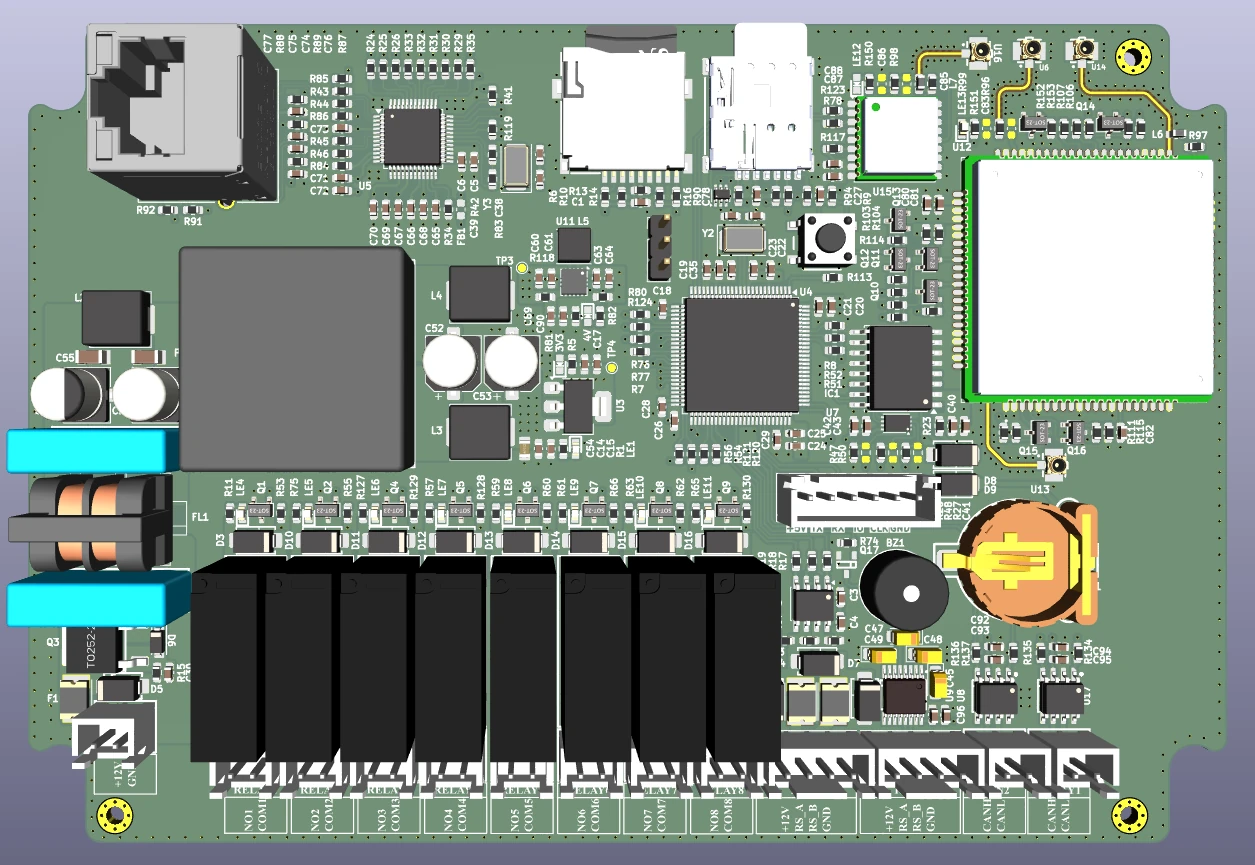
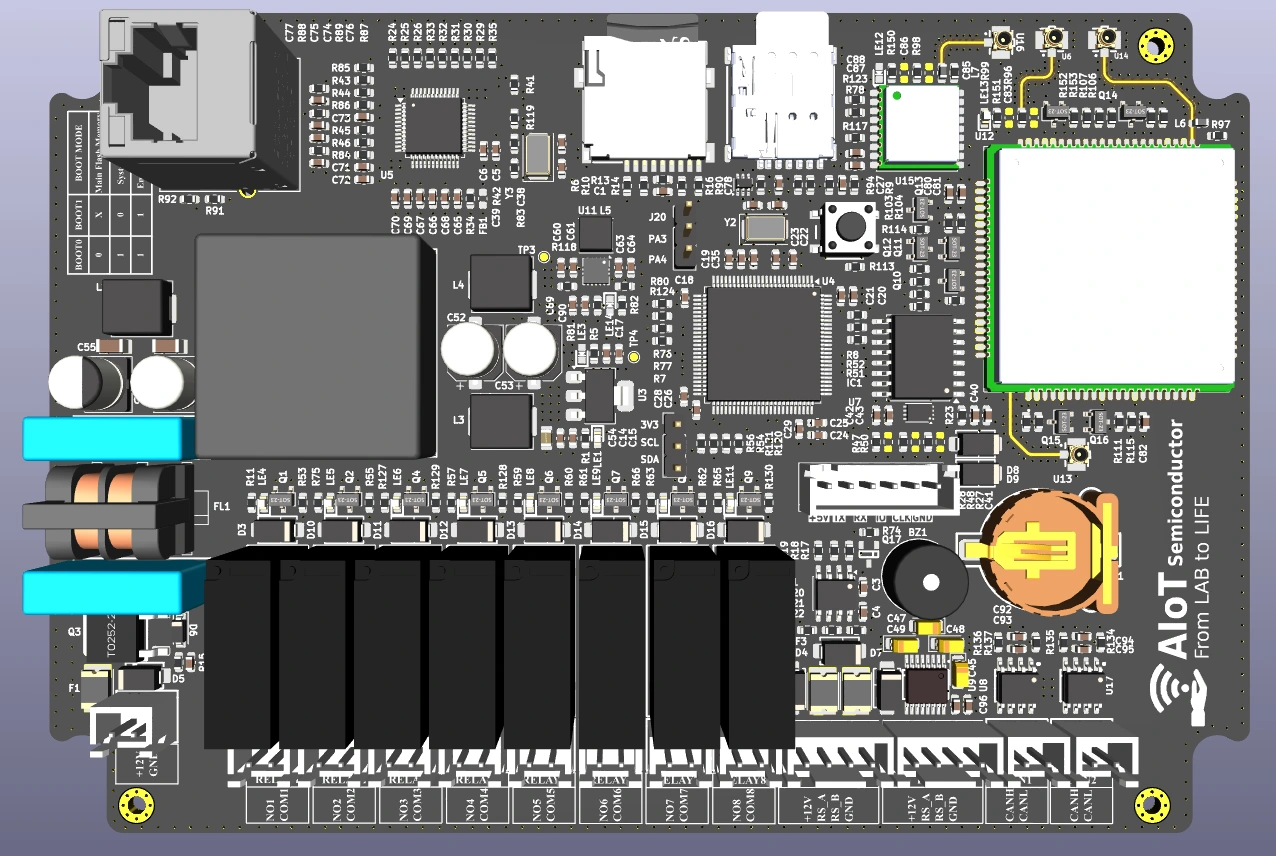
Restore work experience and refresh pump controller project

diff --git a/src/components/PortfolioHome.tsx b/src/components/PortfolioHome.tsx
@@ -25,9 +25,9 @@ export function PortfolioHome(){const{value:education,select:setEducation,panelR
 <section className="ref-container ref-trust"><p>Engineering tools & platforms</p><div className="ref-tools">{['KiCad','Altium Designer','STM32','ESP32','VS Code','Arduino IDE'].map(x=><span key={x}>♧ &nbsp;{x}</span>)}</div><div className="ref-domain-grid">{[["HARDWARE","Hardware design","PCB schematic & layout"],["FIRMWARE","Firmware integration","Microcontrollers & interfaces"],["SOFTWARE","Software interfaces","Dashboards & monitoring"],["IoT","Connected systems","Sensors, telemetry & control"]].map(([label,title,description])=><article key={label}><span>{label}</span><h3>{title}</h3><p>{description}</p></article>)}</div></section>
 <section id="case-studies" className="ref-container ref-section"><Heading label="ENGINEERING STUDIES" description="IoT node/gateway hardware and an STM32F407 industrial pump controller, based on my CV.">Featured <em>Case Studies</em></Heading><div className="ref-two ref-case-grid"><CaseStudy/><CaseStudy index={1}/></div><div className="ref-strategy"><p>Have a hardware challenge to explore?</p><ResumeDownload/></div></section>
 <VisionMarquee/>
-<section id="projects" className="ref-container ref-section circuit-section"><Heading label="SELECTED WORK" description="Five personal PCB and embedded hardware projects. ESP32 Devkit, IoT Board and ESP32 Datalogger are featured first.">Recent <em>Projects</em></Heading><BoardCatalog boards={boards} embedded/></section>
+<section id="projects" className="ref-container ref-section circuit-section"><Heading label="SELECTED WORK" description="Five personal PCB and embedded hardware projects. ESP32 Devkit, Industrial Pump Controller & Data Logger, and ESP32 Datalogger are featured first.">Recent <em>Projects</em></Heading><BoardCatalog boards={boards} embedded/></section>
 <section id="about" className="ref-container ref-about ref-section"><figure><Image src={aboutPortrait.src} alt={aboutPortrait.alt} width={aboutPortrait.width} height={aboutPortrait.height} sizes="(max-width: 799px) 90vw, 565px"/><figcaption>{aboutPortrait.caption}</figcaption></figure><div><span className="ref-label">ABOUT ME</span><h2><em>PCB Design,</em> Embedded<br/>Hardware & <em>Industrial IoT</em></h2><p>I graduated in Automation and Control Engineering Technology from Ho Chi Minh City University of Technology and Engineering (HCMUTE). My technical interests focus on electronic circuit design, component selection, PCB layout, and embedded hardware development using STM32 and ESP32 microcontrollers.</p><p className="pink">Through personal projects, I have designed multi-rail power supplies, industrial communication interfaces, and IoT hardware platforms with Ethernet, LoRa, and 4G LTE connectivity.</p><h4>I SPECIALIZE IN:</h4><ul className="ref-checks"><li>Schematic design and 2–4 layer PCB layout using KiCad and Altium Designer</li><li>Power supply design, component selection, and PCB design fundamentals</li><li>STM32/ESP32 hardware integration and industrial interfaces (RS485, CAN, Ethernet)</li><li>Embedded C/C++ fundamentals and IoT connectivity</li></ul><aside>✧ &nbsp; Familiar with hardware testing and troubleshooting using multimeters and oscilloscopes, with a focus on practical PCB design and continuous technical development.</aside><Socials/></div></section>
-<section id="resume" className="ref-container ref-section"><Heading label="ENGINEERING BACKGROUND" description="Automation engineering and personal hardware design projects.">Engineering <em>Experience</em></Heading><div className="ref-tabs" role="tablist" aria-label="Background" onKeyDown={event=>{if(["ArrowLeft","ArrowRight","Home","End"].includes(event.key)){event.preventDefault();const next=event.key==="Home"?false:event.key==="End"?true:!education;setEducation(next);document.getElementById(next?"education-tab":"experience-tab")?.focus();}}}><button role="tab" id="experience-tab" aria-controls="career-panel" tabIndex={education?-1:0} aria-selected={!education} onClick={()=>setEducation(false)}>Experience</button><button role="tab" id="education-tab" aria-controls="career-panel" tabIndex={education?0:-1} aria-selected={education} onClick={()=>setEducation(true)}>Education</button></div><div className="ref-timeline" ref={panelRef} role="tabpanel" id="career-panel" aria-labelledby={education?"education-tab":"experience-tab"}>{education?<article><h3>HCMUTE</h3><div className="timeline-role"><strong>Automation and Control Engineering Technology</strong><span>Sep 2019 – Sep 2026</span></div><p>Ho Chi Minh City University of Technology and Engineering</p><div className="ref-tags"><span>GPA: 2.7/4.0</span><span>Automation Engineering</span></div></article>:resumeProjects.map(project=>({title:project.name,period:'Personal project',items:project.features})).map(item=><article key={item.title}><i>▣</i><h3>{item.title}</h3><div className="timeline-role"><strong>{item.title}</strong><span>{item.period}</span></div><ul>{item.items.map(text=><li key={text}>{text}</li>)}</ul></article>)}</div></section>
+<section id="resume" className="ref-container ref-section"><Heading label="ENGINEERING BACKGROUND" description="Automation engineering, practical electrical work and personal embedded hardware projects.">Engineering <em>Experience</em></Heading><div className="ref-tabs" role="tablist" aria-label="Background" onKeyDown={event=>{if(["ArrowLeft","ArrowRight","Home","End"].includes(event.key)){event.preventDefault();const next=event.key==="Home"?false:event.key==="End"?true:!education;setEducation(next);document.getElementById(next?"education-tab":"experience-tab")?.focus();}}}><button role="tab" id="experience-tab" aria-controls="career-panel" tabIndex={education?-1:0} aria-selected={!education} onClick={()=>setEducation(false)}>Experience</button><button role="tab" id="education-tab" aria-controls="career-panel" tabIndex={education?0:-1} aria-selected={education} onClick={()=>setEducation(true)}>Education</button></div><div className="ref-timeline" ref={panelRef} role="tabpanel" id="career-panel" aria-labelledby={education?"education-tab":"experience-tab"}>{education?<article><h3>HCMUTE</h3><div className="timeline-role"><strong>Automation and Control Engineering Technology</strong><span>Sep 2019 – Sep 2026</span></div><p>Ho Chi Minh City University of Technology and Engineering</p><div className="ref-tags"><span>GPA: 2.7/4.0</span><span>Automation Engineering</span></div></article>:[{title:'Electrical Panel Technician',period:'1 year',items:['Assembled and wired electrical control panels from wiring diagrams.','Performed electrical checks and troubleshooting.']},{title:'Elevator Maintenance Technician',period:'1 year',items:['Maintained and diagnosed elevator electrical and control systems.','Inspected sensors and control circuits.']},{title:'Personal Hardware & IoT Projects',period:'Personal projects',items:['ESP32 industrial IoT controller: power conversion, SHT31 sensing, RTC, storage, RS485, Wi-Fi, LoRa and relay control.','Industrial Pump Controller & Data Logger (STM32F407): multi-voltage supplies, CAN, RS485, RS232, Ethernet and SIM7600/GNSS.','Private ThingsBoard server with MQTT/HTTP connectivity and real-time dashboards.']}].map(item=><article key={item.title}><i>▣</i><h3>{item.title}</h3><div className="timeline-role"><strong>{item.title}</strong><span>{item.period}</span></div><ul>{item.items.map(text=><li key={text}>{text}</li>)}</ul></article>)}</div></section>
 <TechnicalSkills/>
 <section id="faq" className="ref-container ref-section"><Heading label="QUESTIONS & ANSWERS" description="Common questions about engineering services, project scope and how I work.">Frequently Asked <em>Questions</em></Heading><div className="ref-faq">{[['What PCB design software do you use?','I use KiCad and Altium for schematic capture and 2–4 layer PCB design, including DRC, BOM and Gerber preparation.'],['Can you support hardware prototyping?','Prototype scope, assembly and validation requirements are agreed for each project.'],['Do you design multi-layer PCBs?','Layer count and stackup are selected according to routing, signal and power requirements.'],['Do you work with STM32 and ESP32?','I design STM32 and ESP32 hardware and develop embedded firmware in C/C++, using STM32CubeMX and Arduino IDE.'],['Which microcontrollers do you work with?','STM32, ESP32 and other devices can be considered based on your application.'],['Can you integrate IoT connectivity?','My projects include Wi-Fi, LoRa, Ethernet and SIM7600/4G connectivity for industrial IoT hardware.'],['Can you develop industrial interfaces?','CAN, RS485 and analog or digital interface planning can be scoped for your system.'],['Do you offer schematic reviews?','Reviews can cover architecture, interfaces, component selection and design documentation.'],['Do you provide manufacturing files?','Agreed deliverables can include BOM, Gerbers and assembly documentation after design review.'],['Can you help debug existing PCB designs?','Share schematics, symptoms and available measurements to establish a review and debugging scope.']].map(([q,a])=><AnimatedFAQ key={q} question={q} answer={a}/>)}</div></section>
 <section id="contact" className="ref-container ref-section ref-contact circuit-section"><div><span className="ref-label">GET IN TOUCH</span><h2>Let&apos;s Talk For your <em>Next Project(s)</em></h2><p>Discuss a project or just want to say hi? Share your requirements, explore my <a href="#case-studies">case studies</a>, review my <a href="#technical-skills">technical skills</a>, or check my <a href="#resume">engineering background.</a></p><ul className="ref-checks"><li>PCB design and schematic capture</li><li>Embedded systems and microcontrollers</li><li>Industrial communication interfaces</li><li>Connected hardware and IoT architecture</li></ul><div className="ref-contact-actions"><Socials/><SendEmail/></div></div><ContactForm/></section>

diff --git a/src/app/about/page.tsx b/src/app/about/page.tsx
@@ -1,6 +1,6 @@
 import { ContactCTA } from '@/components/ui';
 import { pageMetadata } from '@/lib/metadata';
 export const metadata = pageMetadata('About', 'Hardware Lab is a personal hardware and software workspace, built around clear and thoughtful design.', '/about/');
-export default function About() { return <><div className="page-heading container"><p className="eyebrow">HARDWARE LAB / PERSONAL WORKSPACE</p><h1>THOUGHTFUL DESIGN.<br />VISIBLE DECISIONS.</h1></div><article className="prose container"><p>I’m Hồ Hoàng Duy, an Automation and Control Engineering Technology graduate from Ho Chi Minh City University of Technology and Engineering (September 2019 – September 2026), based in Ho Chi Minh City. I’m seeking a Hardware Design Engineer role.</p><h2>A considered approach</h2><p>I design 2–4 layer PCBs using KiCad and Altium, develop C/C++ firmware for STM32 and ESP32, and work with industrial interfaces including CAN, RS232, RS485 and Ethernet. My projects include multi-rail AC/DC and DC/DC power supplies, Wi-Fi, LoRa, Ethernet and SIM7600/4G connectivity.</p><h2>A workspace in progress</h2><p>This portfolio presents five of my personal hardware projects: IoT Board, ESP32 PLC, ESP32 Datalogger, ESP32 Devkit and 6 Fan Control. The board images are supplied from my own project work. Detailed test results and manufacturing status are not published.</p><div className="notice">Hoàng Duy · PCB Design, Embedded Systems and IoT.</div></article><ContactCTA /></>; }
+export default function About() { return <><div className="page-heading container"><p className="eyebrow">HARDWARE LAB / PERSONAL WORKSPACE</p><h1>THOUGHTFUL DESIGN.<br />VISIBLE DECISIONS.</h1></div><article className="prose container"><p>I’m Hồ Hoàng Duy, an Automation and Control Engineering Technology graduate from Ho Chi Minh City University of Technology and Engineering (September 2019 – September 2026), based in Ho Chi Minh City. I’m seeking a Hardware Design Engineer role.</p><h2>A considered approach</h2><p>I design 2–4 layer PCBs using KiCad and Altium, develop C/C++ firmware for STM32 and ESP32, and work with industrial interfaces including CAN, RS232, RS485 and Ethernet. My projects include multi-rail AC/DC and DC/DC power supplies, Wi-Fi, LoRa, Ethernet and SIM7600/4G connectivity.</p><h2>A workspace in progress</h2><p>This portfolio presents five of my personal hardware projects: Industrial Pump Controller &amp; Data Logger, ESP32 PLC, ESP32 Datalogger, ESP32 Devkit and 6 Fan Control. The board images are supplied from my own project work. Detailed test results and manufacturing status are not published.</p><div className="notice">Hoàng Duy · PCB Design, Embedded Systems and IoT.</div></article><ContactCTA /></>; }
 
 

diff --git a/tests/e2e/resume-update.spec.ts b/tests/e2e/resume-update.spec.ts
@@ -7,7 +7,7 @@ test('resume-aligned introduction, projects, education and PDF download',async({
  await page.goto('/');
  await expect(page.locator('.ref-hero h1')).toHaveText('Designing PCBs. Developing Embedded Hardware. Connecting Systems.');
  await expect(page.locator('.ref-case')).toHaveCount(2);
- await expect(page.locator('.reference-home')).not.toContainText('ThingsBoard');
+ await expect(page.locator('#case-studies')).not.toContainText('ThingsBoard');
  await expect(page.locator('#about .ref-checks li')).toHaveCount(4);
  await page.locator('#about').scrollIntoViewIfNeeded();
  await expect(page.locator('#about')).toContainText(/Embedded\s*Hardware/);
@@ -15,8 +15,10 @@ test('resume-aligned introduction, projects, education and PDF download',async({
  await page.getByRole('tab',{name:'Education',exact:true}).click();
  await expect(page.locator('#career-panel')).toContainText('Technology and Engineering');
  await page.getByRole('tab',{name:'Experience',exact:true}).click();
- await expect(page.locator('#career-panel article')).toHaveCount(2);
+ await expect(page.locator('#career-panel article')).toHaveCount(3);
  await expect(page.locator('#career-panel')).toContainText('Industrial Pump Controller');
+ await expect(page.locator('#career-panel')).toContainText('Electrical Panel Technician');
+ await expect(page.locator('#career-panel')).toContainText('Elevator Maintenance Technician');
  const href=await page.locator('.ref-hero .resume-download a').getAttribute('href');
  const pdf=await request.get(href!);expect(pdf.ok()).toBe(true);
  const hash=(bytes:Buffer)=>createHash('sha256').update(bytes).digest('hex');
@@ -27,5 +29,10 @@ test('resume-aligned introduction, projects, education and PDF download',async({
   await page.screenshot({path:'.wrangler/pcb-viewer-qa/cv-hero-'+width+'.png'});
   await page.locator('#about').scrollIntoViewIfNeeded();expect(await page.evaluate(()=>document.documentElement.scrollWidth<=innerWidth)).toBe(true);
  }
+ await page.goto('/projects/iot-board/');
+ await expect(page.locator('.detail-summary h1')).toHaveText('Industrial Pump Controller & Data Logger');
+ const boardImage=page.locator('.gallery img');await boardImage.evaluate(image=>(image as HTMLImageElement).decode());
+ const imageResponse=await request.get('/assets/projects/personal/iot-board.webp');expect(imageResponse.ok()).toBe(true);
+ expect(hash(await imageResponse.body())).toBe(hash(readFileSync('public/assets/projects/personal/iot-board.webp')));
  expect(errors).toEqual([]);
 });

diff --git a/tests/unit/projects.test.ts b/tests/unit/projects.test.ts
@@ -9,7 +9,7 @@ test('unknown slug is absent and all provided assets exist', () => { assert.equa
 test('schema rejects unsafe assets, invalid categories and false quantities', () => { assert(!boardSchema.safeParse({ ...boards[0], category: 'fake' }).success); assert(!boardSchema.safeParse({ ...boards[0], heroImage: { ...boards[0].heroImage, src: '/assets/../secret' } }).success); assert(!boardSchema.safeParse({ ...boards[0], components: [{ designator: 'U1', quantity: 0, description: 'invalid' }] }).success); });
 test('personal projects contain no invented specification or download claims', () => { boards.forEach(board => { assert.equal(board.specs.length, 0); assert.equal(board.files, undefined); assert.equal(board.components, undefined); if(!['esp32-devkit','esp32-plc'].includes(board.slug))assert.equal(board.stackup, undefined); assert.equal(board.personal, true); assert.match(board.disclaimer, /Personal project/); }); });
 
-test('owner projects are prioritized and use the supplied images', () => { assert.deepEqual(boards.map(b=>b.name), ['ESP32 Devkit','IoT Board','ESP32 Datalogger','ESP32 PLC','6 Fan Control']); assert.deepEqual(boards.filter(b=>b.featured).map(b=>b.slug), ['esp32-devkit','iot-board','esp32-datalogger']); boards.forEach(b=>assert.equal(b.heroImage.src, `/assets/projects/personal/${b.slug}.webp`)); });
+test('owner projects are prioritized and use the supplied images', () => { assert.deepEqual(boards.map(b=>b.name), ['ESP32 Devkit','Industrial Pump Controller & Data Logger','ESP32 Datalogger','ESP32 PLC','6 Fan Control']); assert.deepEqual(boards.filter(b=>b.featured).map(b=>b.slug), ['esp32-devkit','iot-board','esp32-datalogger']); boards.forEach(b=>assert.equal(b.heroImage.src, `/assets/projects/personal/${b.slug}.webp`)); });
 
 test('interactive BOM is assigned to the supplied ESP32 projects and rejects unsafe paths',()=>{assert.deepEqual(boards.filter(b=>b.interactiveBom).map(b=>b.slug),['esp32-devkit','esp32-plc']);assert.equal(boards[0].interactiveBom?.src,'/assets/projects/personal/esp32-devkit/ibom.html');assert(!boardSchema.safeParse({...boards[0],interactiveBom:{title:'Invalid viewer',src:'https://example.com/ibom.html'}}).success);});
 
